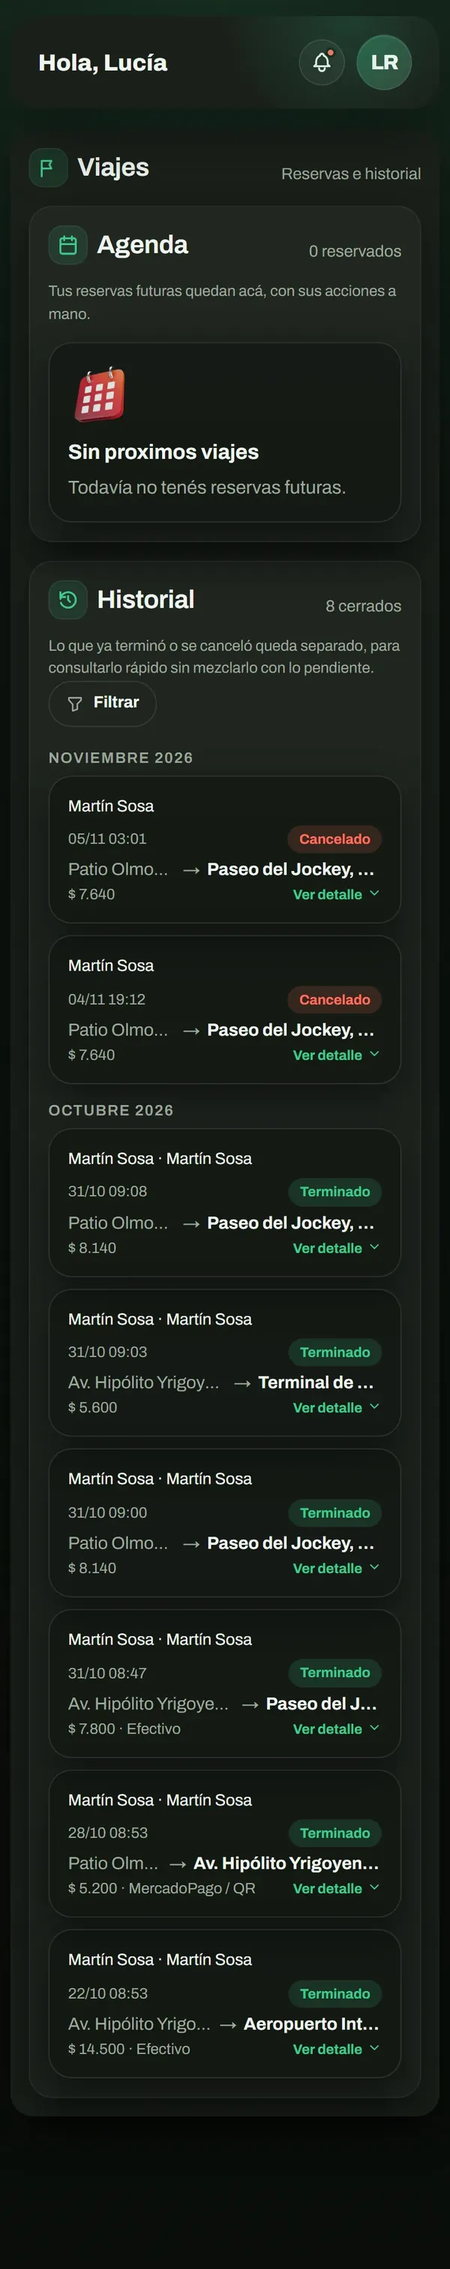
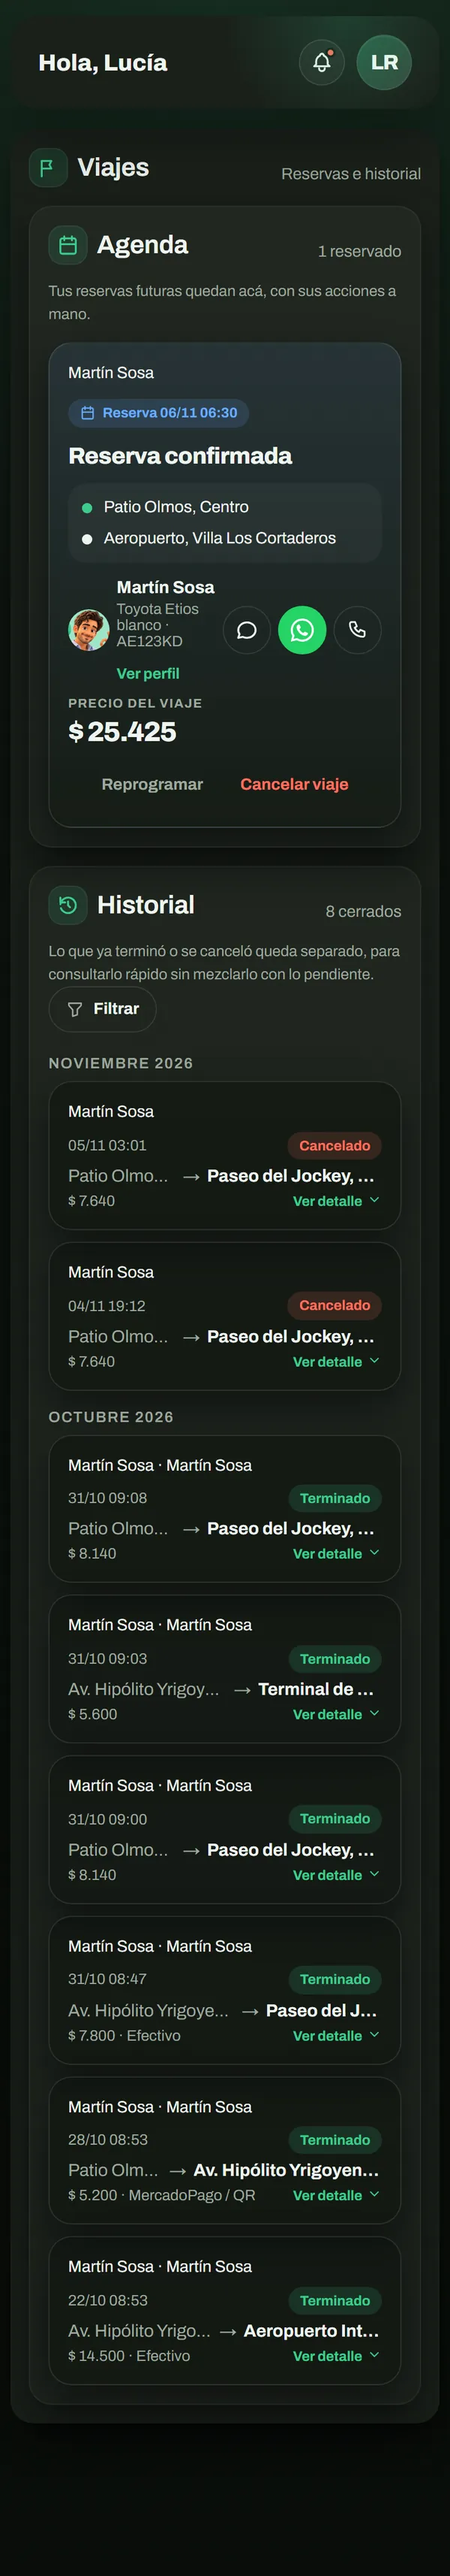
Landing: paginas internas con las capturas de la app nueva
- assets/screens/*.webp reemplazadas por la app en el diseno nuevo (mismo
  nombre y tamano, 780x1688): oferta, agenda con reserva, pasajeros, perfil,
  web del chofer, formulario de pedido, seguimiento, choferes de confianza,
  inicio y reserva confirmada de la pasajera. Asi cambian a la vez Para vos,
  Para tus pasajeros, Agenda, Cobros, Compartir, Precio y Notificaciones.
- Como funciona: la agenda muestra la reserva de manana y Reservas la reserva
  confirmada.
- Textos alternativos sin "Martin Herrera" ni el viaje viejo.

diff --git a/landing-independiente/index.html b/landing-independiente/index.html
@@ -171,7 +171,7 @@
     <article class="pillar" id="tu-app" role="tabpanel" aria-labelledby="tab-tu-app">
       <div class="pillar-media">
         <div class="viewer" data-viewer>
-          <div class="phone-pin"><div class="phone"><div class="track" tabindex="0" aria-label="Pantallas de la app del chofer. Deslizá para ver cada pantalla"><div class="slide slide-seq" data-cap="Te entra un viaje: ponés tu precio, ella acepta y salís."><img src="assets/app/of-1.webp" alt="Pedido nuevo de Lucía de Patio Olmos a Paseo del Jockey" width="600" height="1298"><img src="assets/app/of-2.webp" alt="El chofer sube el precio con el botón +500" width="600" height="1298" loading="lazy"><img src="assets/app/of-3.webp" alt="Propuesta enviada, esperando que la pasajera acepte" width="600" height="1298" loading="lazy"><img src="assets/app/of-4.webp" alt="Viaje confirmado con el botón Voy en camino" width="600" height="1298" loading="lazy"><img src="assets/app/of-5.webp" alt="El chofer en camino al origen, con el mapa del recorrido" width="600" height="1298" loading="lazy"><span class="seq-chip">1 · Te entra el pedido</span><span class="seq-chip">2 · Ponés tu precio</span><span class="seq-chip">3 · Esperás que acepte</span><span class="seq-chip">4 · Aceptó: salís a buscarla</span><span class="seq-chip">5 · Vas en camino</span></div><div class="slide" data-cap="Tus viajes de la semana y las reservas que vienen."><img src="assets/app/agenda.webp" alt="Agenda del chofer en vista semana, con los pendientes de hoy" width="600" height="2266" loading="lazy"></div><div class="slide" data-cap="Tus pasajeros, y tu link y QR para conseguir más."><img src="assets/app/pasajeros.webp" alt="Pasajeros del chofer, su QR y su link para compartir" width="600" height="3188" loading="lazy"></div><div class="slide" data-cap="Precio, cobros y WhatsApp, configurados a tu manera."><img src="assets/app/negocio.webp" alt="Perfil del chofer: perfil público, tipo de precio, Mercado Pago y WhatsApp" width="600" height="2755" loading="lazy"></div></div></div></div>
+          <div class="phone-pin"><div class="phone"><div class="track" tabindex="0" aria-label="Pantallas de la app del chofer. Deslizá para ver cada pantalla"><div class="slide slide-seq" data-cap="Te entra un viaje: ponés tu precio, ella acepta y salís."><img src="assets/app/of-1.webp" alt="Pedido nuevo de Lucía de Patio Olmos a Paseo del Jockey" width="600" height="1298"><img src="assets/app/of-2.webp" alt="El chofer sube el precio con el botón +500" width="600" height="1298" loading="lazy"><img src="assets/app/of-3.webp" alt="Propuesta enviada, esperando que la pasajera acepte" width="600" height="1298" loading="lazy"><img src="assets/app/of-4.webp" alt="Viaje confirmado con el botón Voy en camino" width="600" height="1298" loading="lazy"><img src="assets/app/of-5.webp" alt="El chofer en camino al origen, con el mapa del recorrido" width="600" height="1298" loading="lazy"><span class="seq-chip">1 · Te entra el pedido</span><span class="seq-chip">2 · Ponés tu precio</span><span class="seq-chip">3 · Esperás que acepte</span><span class="seq-chip">4 · Aceptó: salís a buscarla</span><span class="seq-chip">5 · Vas en camino</span></div><div class="slide" data-cap="Tus viajes de la semana y las reservas que vienen."><img src="assets/app/agenda.webp" alt="Agenda del chofer en vista semana, con una reserva para mañana al aeropuerto" width="600" height="2372" loading="lazy"></div><div class="slide" data-cap="Tus pasajeros, y tu link y QR para conseguir más."><img src="assets/app/pasajeros.webp" alt="Pasajeros del chofer, su QR y su link para compartir" width="600" height="3188" loading="lazy"></div><div class="slide" data-cap="Precio, cobros y WhatsApp, configurados a tu manera."><img src="assets/app/negocio.webp" alt="Perfil del chofer: perfil público, tipo de precio, Mercado Pago y WhatsApp" width="600" height="2755" loading="lazy"></div></div></div></div>
           <div class="viewer-tabs" role="tablist" aria-label="Pantallas de la app del chofer"><button type="button" role="tab" aria-selected="true" data-i="0">Pedido nuevo</button><button type="button" role="tab" aria-selected="false" data-i="1">Agenda</button><button type="button" role="tab" aria-selected="false" data-i="2">Pasajeros</button><button type="button" role="tab" aria-selected="false" data-i="3">Tu negocio</button></div>
           <p class="viewer-cap" aria-live="polite">Te entra un viaje: ponés tu precio, ella acepta y salís.</p>
           <a class="more more-media" href="tu-app">Ver la app por dentro →</a>
@@ -193,7 +193,7 @@
     <article class="pillar flip" id="tus-pasajeros" role="tabpanel" aria-labelledby="tab-tus-pasajeros">
       <div class="pillar-media">
         <div class="viewer" data-viewer>
-          <div class="phone-pin"><div class="phone"><div class="track" tabindex="0" aria-label="Pantallas de la app de tus pasajeros. Deslizá para ver cada pantalla"><div class="slide" data-cap="Entra con tu link o tu QR y te pide sin descargar nada."><img src="assets/app/te-pide.webp" alt="Web de Martín Sosa con el viaje de Patio Olmos a Paseo del Jockey en el mapa" width="600" height="2760"></div><div class="slide" data-cap="Sigue el viaje en el mapa y ve quién la busca."><img src="assets/app/en-vivo.webp" alt="La pasajera sigue al chofer en camino en el mapa" width="600" height="1897" loading="lazy"></div><div class="slide" data-cap="Te tiene guardado y te vuelve a pedir en un toque."><img src="assets/app/te-guarda.webp" alt="Martín Sosa guardado como chofer de confianza" width="600" height="1298" loading="lazy"></div><div class="slide" data-cap="Sus viajes programados y los que ya hizo con vos."><img src="assets/app/reservas.webp" alt="Viajes de la pasajera: agenda e historial con Martín Sosa" width="600" height="3020" loading="lazy"></div></div></div></div>
+          <div class="phone-pin"><div class="phone"><div class="track" tabindex="0" aria-label="Pantallas de la app de tus pasajeros. Deslizá para ver cada pantalla"><div class="slide" data-cap="Entra con tu link o tu QR y te pide sin descargar nada."><img src="assets/app/te-pide.webp" alt="Web de Martín Sosa con el viaje de Patio Olmos a Paseo del Jockey en el mapa" width="600" height="2760"></div><div class="slide" data-cap="Sigue el viaje en el mapa y ve quién la busca."><img src="assets/app/en-vivo.webp" alt="La pasajera sigue al chofer en camino en el mapa" width="600" height="1897" loading="lazy"></div><div class="slide" data-cap="Te tiene guardado y te vuelve a pedir en un toque."><img src="assets/app/te-guarda.webp" alt="Martín Sosa guardado como chofer de confianza" width="600" height="1298" loading="lazy"></div><div class="slide" data-cap="Sus viajes programados y los que ya hizo con vos."><img src="assets/app/reservas.webp" alt="Viajes de la pasajera: su reserva confirmada y el historial con Martín Sosa" width="600" height="3428" loading="lazy"></div></div></div></div>
           <div class="viewer-tabs" role="tablist" aria-label="Pantallas de la app de tus pasajeros"><button type="button" role="tab" aria-selected="true" data-i="0">Te pide</button><button type="button" role="tab" aria-selected="false" data-i="1">En vivo</button><button type="button" role="tab" aria-selected="false" data-i="2">Te guarda</button><button type="button" role="tab" aria-selected="false" data-i="3">Reservas</button></div>
           <p class="viewer-cap" aria-live="polite">Entra con tu link o tu QR y te pide sin descargar nada.</p>
           <a class="more more-media" href="para-tus-pasajeros">Ver qué ve tu pasajero →</a>

diff --git a/landing-independiente/para-tus-pasajeros.html b/landing-independiente/para-tus-pasajeros.html
@@ -53,7 +53,7 @@
 <section class="feats">
   <div class="wrap">
     <div class="feat">
-      <div class="phone"><img src="assets/screens/pagina-publica.webp" alt="Web del chofer Martín Herrera con su nombre, su auto y el mapa del recorrido" width="780" height="1688" loading="lazy"></div>
+      <div class="phone"><img src="assets/screens/pagina-publica.webp" alt="Web del chofer Martín Sosa con su auto y el viaje elegido en el mapa" width="780" height="1688" loading="lazy"></div>
       <div>
         <h2>Te encuentra <em>con tu link o tu QR.</em></h2>
         <p>Lo primero que ve es a vos: tu nombre, tu auto, en qué ciudad trabajás, cómo se te puede pagar y si estás disponible ahora. No el nombre de una app.</p>
@@ -77,7 +77,7 @@
       </div>
     </div>
     <div class="feat">
-      <div class="phone"><img src="assets/screens/pasajero-choferes.webp" alt="App del pasajero con Martín Herrera como chofer favorito y el botón Pedir viaje" width="780" height="1688" loading="lazy"></div>
+      <div class="phone"><img src="assets/screens/pasajero-choferes.webp" alt="App del pasajero con Martín Sosa como chofer de confianza y el botón Pedir viaje" width="780" height="1688" loading="lazy"></div>
       <div>
         <h2>Te guarda <em>como su chofer.</em></h2>
         <p>Si se registra, te tiene guardado con los choferes que ya lo llevaron, con su favorito arriba. Para volver a pedirte, toca "Pedir viaje" y listo.</p>
@@ -85,7 +85,7 @@
       </div>
     </div>
     <div class="feat">
-      <div class="phone"><img src="assets/screens/pasajero-inicio.webp" alt="Inicio de la app del pasajero con sus lugares guardados y su chofer disponible" width="780" height="1688" loading="lazy"></div>
+      <div class="phone"><img src="assets/screens/pasajero-inicio.webp" alt="Inicio de la app del pasajero con su último viaje y el botón para pedir otro" width="780" height="1688" loading="lazy"></div>
       <div>
         <h2>La próxima vez, <em>más rápido.</em></h2>
         <p>Al volver ve sus lugares guardados (casa, trabajo) y a vos, con un botón para pedir. Menos pasos que escribirte por WhatsApp.</p>

diff --git a/landing-independiente/tu-app.html b/landing-independiente/tu-app.html
@@ -53,7 +53,7 @@
 <section class="feats">
   <div class="wrap">
     <div class="feat">
-      <div class="phone"><img src="assets/screens/app-nueva-oferta.webp" alt="Viaje nuevo de Barrio Jardín al Aeropuerto con el precio para proponer" width="780" height="1688" loading="lazy"></div>
+      <div class="phone"><img src="assets/screens/app-nueva-oferta.webp" alt="Pedido nuevo de Lucía de Patio Olmos a Paseo del Jockey, con el precio para proponer" width="780" height="1688" loading="lazy"></div>
       <div>
         <h2>Te entra un pedido. <em>Vos decidís.</em></h2>
         <p>Ves de dónde a dónde va, un precio estimado y cuánto tiempo tenés para responder. Lo subís o bajás de a $500, lo proponés y el pasajero lo acepta.</p>
@@ -62,7 +62,7 @@
       </div>
     </div>
     <div class="feat">
-      <div class="phone"><img src="assets/screens/app-agenda.webp" alt="Calendario del chofer con los viajes de cada día y una reserva para mañana" width="780" height="1688" loading="lazy"></div>
+      <div class="phone"><img src="assets/screens/app-agenda.webp" alt="Agenda del chofer en vista semana, con una reserva para mañana al aeropuerto" width="780" height="1688" loading="lazy"></div>
       <div>
         <h2>Tu agenda, <em>ordenada.</em></h2>
         <p>Los pasajeros también te reservan viajes para otro día. Te quedan en un calendario, con lo pendiente de hoy y las próximas reservas a mano.</p>
